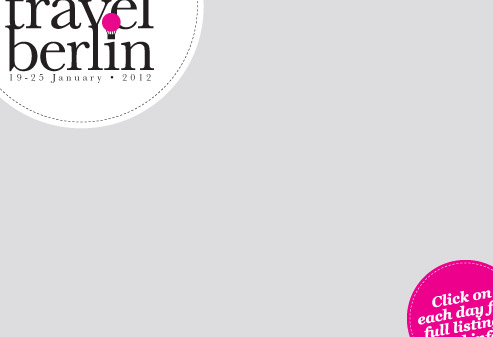
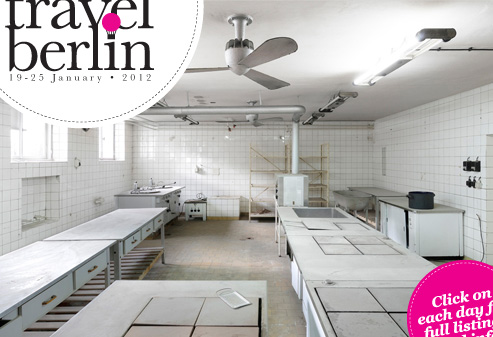
New header image

diff --git a/index.html b/index.html
@@ -238,7 +238,7 @@
                       <img src="img/side_header.jpg" alt="">
                     </td>
                     <td height="337" valign="top" width="493" align="left">
-                      <img src="img/main_header.jpg" alt="" width="493">
+                      <img src="img/main_header.jpg" alt="" width="493" editable="true">
                     </td>
                     <td height="337" valign="bottom" align="left">
                       <img src="img/balloon-right.jpg" alt="">
